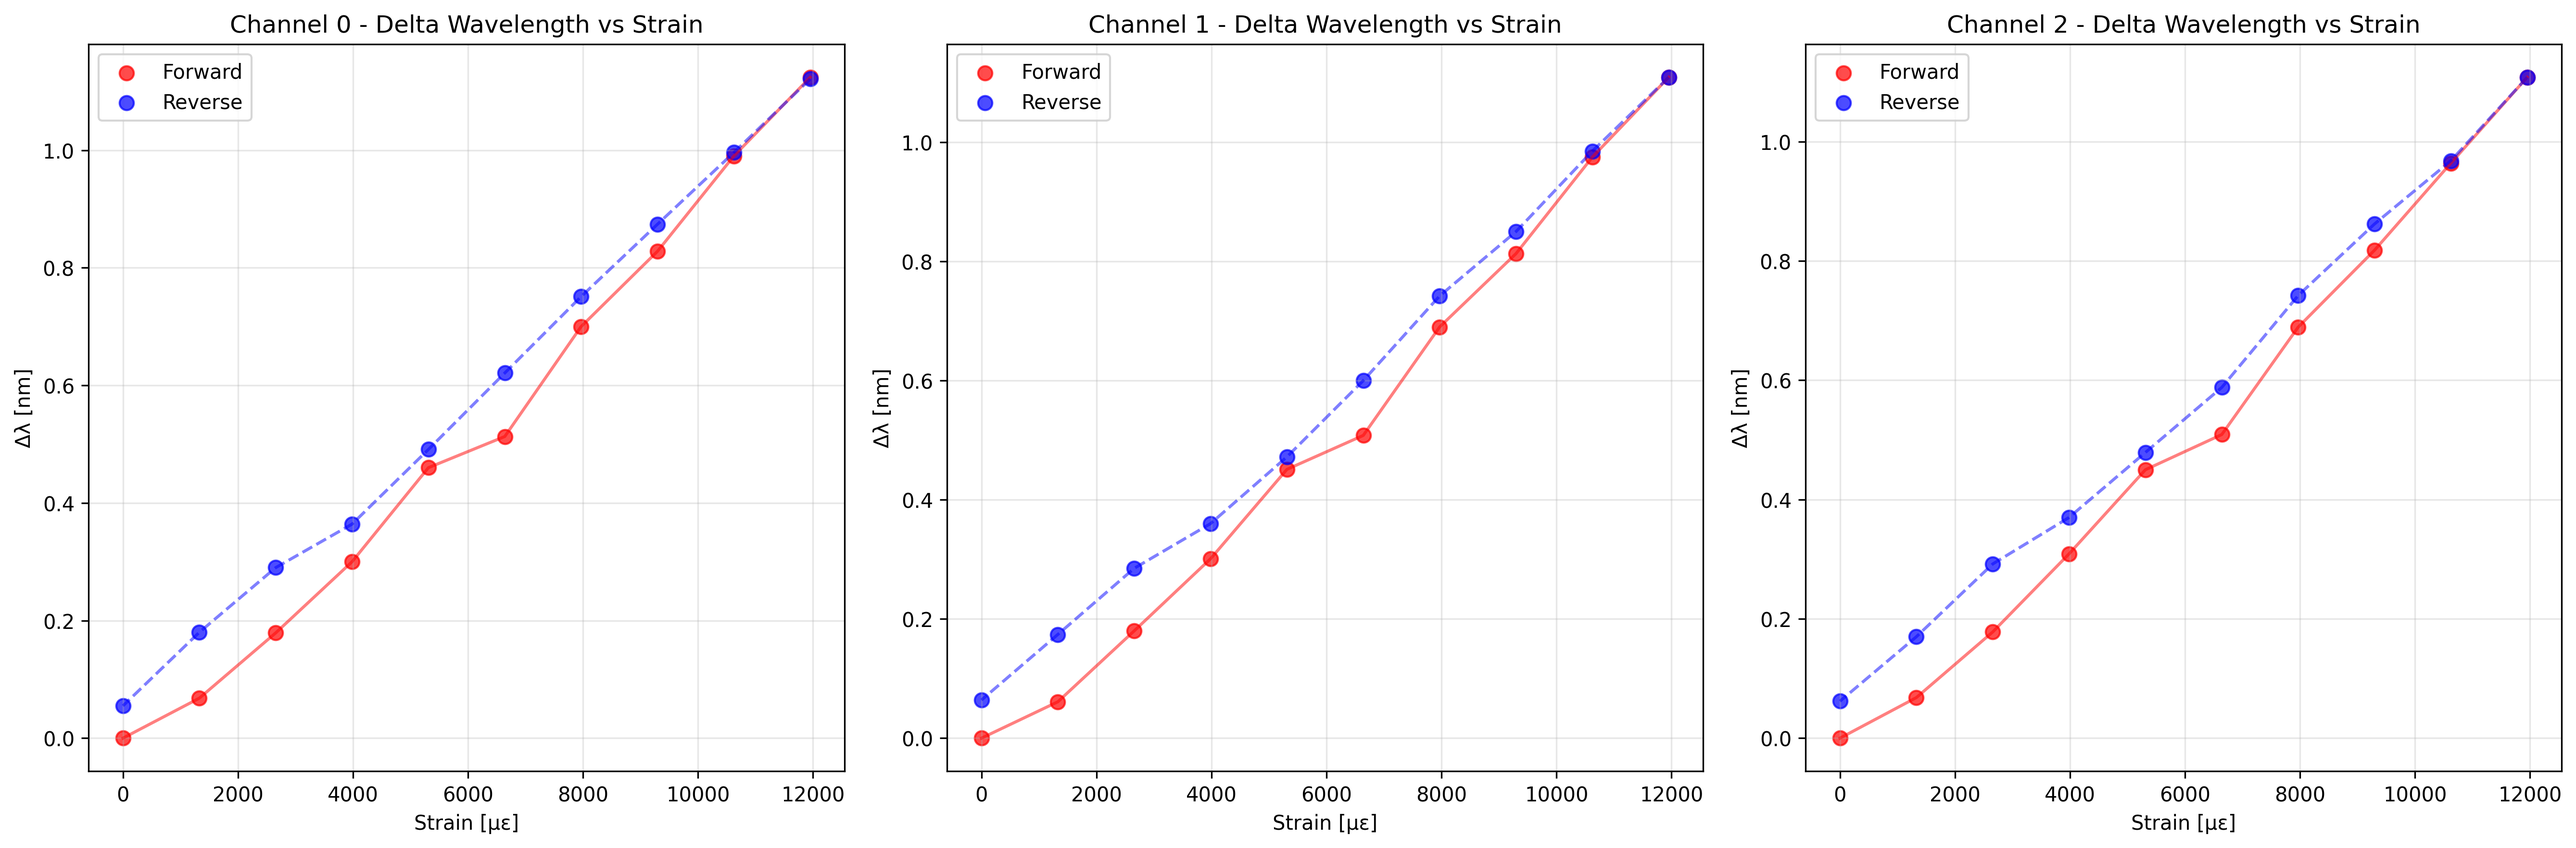
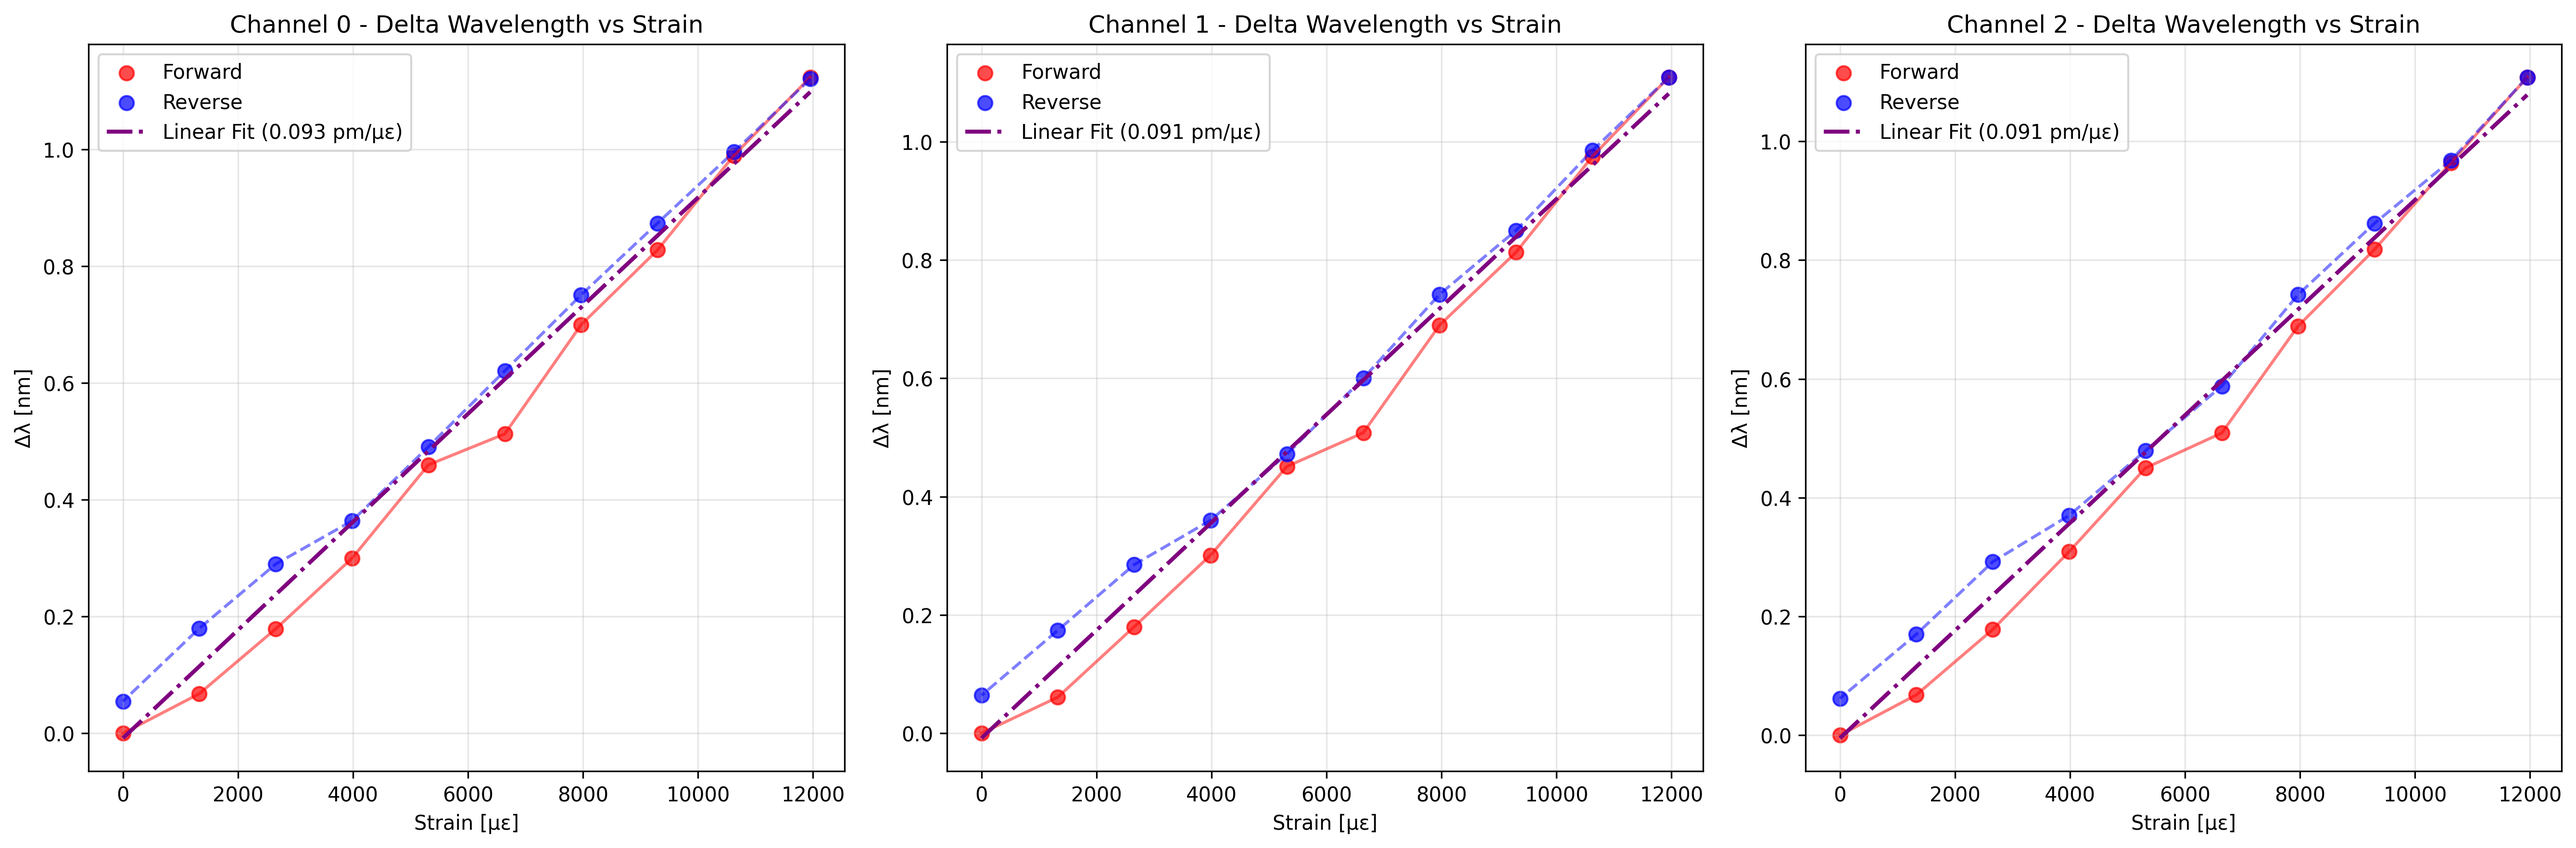
Add linear fit to strain analysis and introduce new force range plotting script. Update strain data visualization with combined data fitting and create a new script for summarizing force data from CSV files.

diff --git a/plot_force_range_by_span.py b/plot_force_range_by_span.py
@@ -1,0 +1,124 @@
+import os
+import glob
+from pathlib import Path
+from typing import Dict, List, Tuple
+
+import pandas as pd
+import matplotlib
+matplotlib.use("Agg")  # Ensure non-interactive backend for headless environments
+import matplotlib.pyplot as plt
+
+
+def find_latest_output_folder(base_path: str = "output") -> Path | None:
+    """Return the most recently created directory under base_path, or None if empty."""
+    base = Path(base_path)
+    if not base.exists():
+        return None
+    subdirs = [p for p in base.iterdir() if p.is_dir()]
+    if not subdirs:
+        return None
+    # Use creation time to match prior scripts' behavior
+    latest = max(subdirs, key=lambda p: p.stat().st_ctime)
+    return latest
+
+
+def collect_force_by_span(folder: Path) -> pd.DataFrame:
+    """Scan merged_*.csv files in folder and compute min/max force per Distance (cm)."""
+    csv_paths = sorted(folder.glob("merged_*.csv"))
+    if not csv_paths:
+        raise FileNotFoundError(f"No merged_*.csv files found in {folder}")
+
+    records: List[Tuple[float, float]] = []  # (distance_cm, force_n)
+    for csv_path in csv_paths:
+        try:
+            df = pd.read_csv(csv_path, usecols=["Distance (cm)", "Force (N)"])
+        except ValueError:
+            # Columns may not be selectable by usecols in some pandas versions; read full then filter
+            df = pd.read_csv(csv_path)
+            missing = {c for c in ["Distance (cm)", "Force (N)"] if c not in df.columns}
+            if missing:
+                raise KeyError(f"Missing columns {missing} in {csv_path}")
+
+        # Robust numeric conversion
+        df["Distance (cm)"] = pd.to_numeric(df["Distance (cm)"], errors="coerce")
+        df["Force (N)"] = pd.to_numeric(df["Force (N)"], errors="coerce")
+        df = df.dropna(subset=["Distance (cm)", "Force (N)"])
+
+        if df.empty:
+            continue
+
+        # Distance is constant per file; still collect all rows to cover any anomalies robustly
+        records.extend(df[["Distance (cm)", "Force (N)"]].itertuples(index=False, name=None))
+
+    if not records:
+        raise RuntimeError(f"No usable force data found in {folder}")
+
+    data = pd.DataFrame(records, columns=["Distance (cm)", "Force (N)"])
+    summary = (
+        data.groupby("Distance (cm)")["Force (N)"]
+        .agg(force_min_N="min", force_max_N="max", force_mean_N="mean")
+        .reset_index()
+        .sort_values("Distance (cm)")
+    )
+    return summary
+
+
+def plot_horizontal_force_ranges(summary: pd.DataFrame, out_png: Path) -> None:
+    """Create a horizontal range plot (min→max force per span) and save it."""
+    distances = summary["Distance (cm)"].astype(float).values
+    force_min = summary["force_min_N"].astype(float).values
+    force_max = summary["force_max_N"].astype(float).values
+
+    n = len(distances)
+    y_positions = list(range(n))
+
+    fig_height = max(2.5, 0.6 * n + 1.2)
+    fig, ax = plt.subplots(figsize=(10, fig_height))
+
+    # Draw horizontal line segments for ranges
+    for idx, y in enumerate(y_positions):
+        ax.hlines(y=y, xmin=force_min[idx], xmax=force_max[idx], colors="#1f77b4", linewidth=4, alpha=0.9)
+        # End caps
+        ax.plot([force_min[idx], force_max[idx]], [y, y], "o", color="#1f77b4", markersize=6)
+
+    # Labels and formatting
+    ax.set_xlabel("Force (N)")
+    ax.set_yticks(y_positions)
+    ax.set_yticklabels([f"{int(d) if float(d).is_integer() else d} cm" for d in distances])
+    ax.set_title("Applied Force Range by Span Length")
+    ax.grid(axis="x", linestyle=":", alpha=0.5)
+    ax.set_ylim(-0.5, n - 0.5)
+
+    fig.tight_layout()
+    out_png.parent.mkdir(parents=True, exist_ok=True)
+    fig.savefig(out_png, dpi=160)
+    plt.close(fig)
+
+
+def main(folder_arg: str | None = None) -> Path:
+    folder = Path(folder_arg) if folder_arg else find_latest_output_folder("output")
+    if folder is None or not folder.exists():
+        raise FileNotFoundError("Could not resolve an output folder. Provide --folder or generate merged outputs first.")
+
+    summary = collect_force_by_span(folder)
+
+    # Persist summary alongside plot for traceability
+    summary_csv = folder / "force_range_by_span.csv"
+    summary.to_csv(summary_csv, index=False)
+
+    out_png = folder / "force_range_by_span.png"
+    plot_horizontal_force_ranges(summary, out_png)
+    return out_png
+
+
+if __name__ == "__main__":
+    import argparse
+
+    parser = argparse.ArgumentParser(description="Plot horizontal force ranges per span length from merged CSVs.")
+    parser.add_argument("--folder", type=str, default=None, help="Path to an output subfolder containing merged_*.csv files. Defaults to latest under 'output/'.")
+    args = parser.parse_args()
+
+    out_path = main(args.folder)
+    print(f"Saved plot to: {out_path}")
+
+

diff --git a/analyze_manual_strain_data.py b/analyze_manual_strain_data.py
@@ -113,6 +113,23 @@ def analyze_manual_strain_data():
             ax.plot(reverse_data['Strain_corrected_microstrain'], reverse_data[delta_channel], 
                    color=colors[1], alpha=0.5, linestyle='--')
         
+        # Combined data for linear fit
+        combined_data = pd.concat([forward_data, reverse_data])
+        if len(combined_data) > 1:
+            x_all = combined_data['Strain_corrected_microstrain']
+            y_all = combined_data[delta_channel]
+            
+            coef = np.polyfit(x_all, y_all, 1)
+            poly1d_fn = np.poly1d(coef)
+            sensitivity = coef[0] * 1000  # pm/με
+            
+            # Generate x values for plotting the fit line
+            x_fit = np.linspace(x_all.min(), x_all.max(), 100)
+            y_fit = poly1d_fn(x_fit)
+            
+            ax.plot(x_fit, y_fit, color='purple', linestyle='-.', lw=2,
+                    label=f'Linear Fit ({sensitivity:.3f} pm/με)')
+
         ax.set_xlabel('Strain [με]')
         ax.set_ylabel('Δλ [nm]')
         ax.set_title(f'{name} - Delta Wavelength vs Strain')
